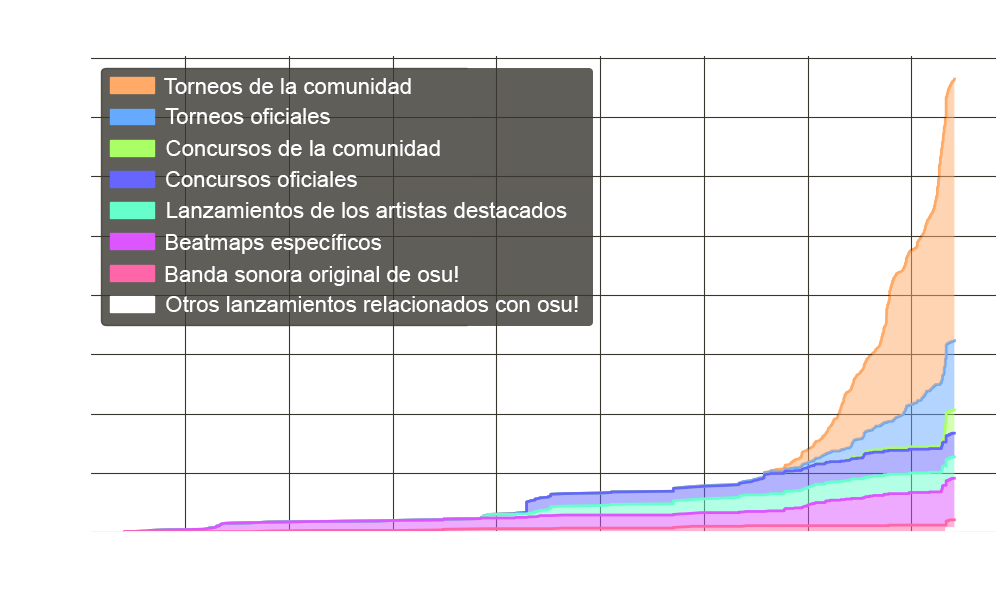
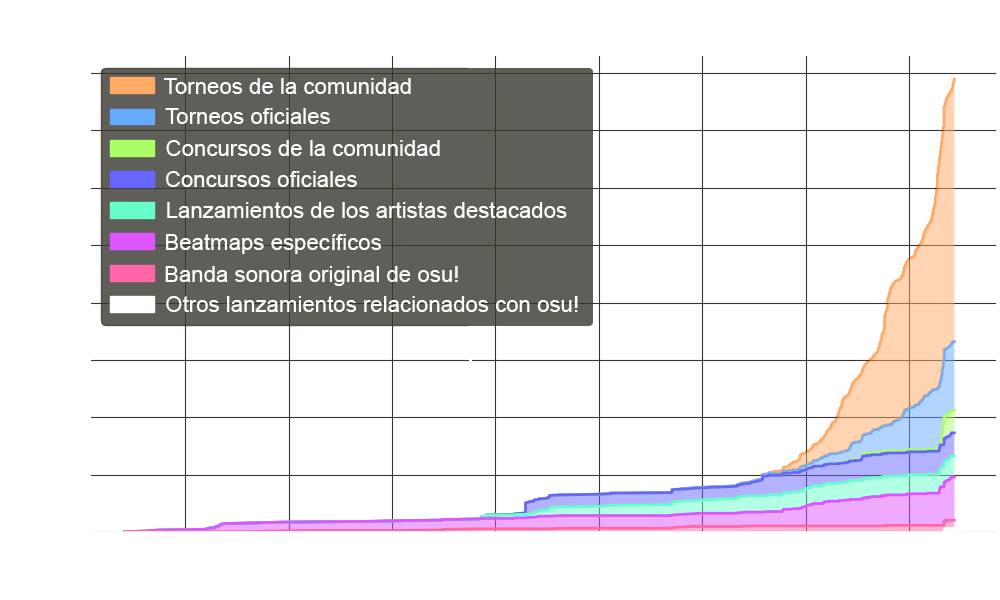
Apply #12427

diff --git a/wiki/osu!_originals/es.md b/wiki/osu!_originals/es.md
@@ -6,7 +6,7 @@ Todos los osu! originals que han sido licenciados por el juego están autorizado
 
 ## Estadísticas
 
-Actualmente, hay un total de **781** osu! originals documentados.
+Actualmente, hay un total de **789** osu! originals documentados.
 
 ![Gráfico de los osu! originals a lo largo del tiempo](img/originals-over-time-ES.png)
 
@@ -181,7 +181,7 @@ Estas canciones forman parte del [EP tomspicy osu! collection 01](https://osu.pp
 | [![SoundCloud](/wiki/shared/link/SoundCloud.png)](https://soundcloud.com/dialgadu77/escape "SoundCloud") [![YouTube](/wiki/shared/link/YouTube.png)](https://www.youtube.com/watch?v=rYmTItO3caw "YouTube") | [![FA](/wiki/shared/link/FA.png)](https://osu.ppy.sh/beatmaps/artists/tracks?artist=Kurokotei&query=%22escape%20%28the%20looking-glass%2C%20and%20what%20alice%20found%20there%29%22 "Página de artista destacado") | Kurokotei feat. Sennzai - escape (the looking-glass, and what alice found there) | [#1](https://osu.ppy.sh/beatmapsets/1880652) | Mapa de desempate de las semifinales |
 | [![YouTube](/wiki/shared/link/YouTube.png)](https://www.youtube.com/watch?v=PCc2tM3YWs0 "YouTube") | [![FA](/wiki/shared/link/FA.png)](https://osu.ppy.sh/beatmaps/artists/tracks?artist=NIWASHI&query=%22Harder%20Than%20Diamond%22 "Página de artista destacado") | NIWASHI - Harder Than Diamond | [#1](https://osu.ppy.sh/beatmapsets/1884920) | FM4 de las finales |
 | [![SoundCloud](/wiki/shared/link/SoundCloud.png)](https://soundcloud.com/dksslqj/sanctuary "SoundCloud") | [![FA](/wiki/shared/link/FA.png)](https://osu.ppy.sh/beatmaps/artists/tracks?artist=Rabbit%20House&query=%22Sanctuary%22 "Página de artista destacado") | Rabbit House - Sanctuary | [#1](https://osu.ppy.sh/beatmapsets/1889094) | HR2 de la gran final |
-| [![SoundCloud](/wiki/shared/link/SoundCloud.png)](https://soundcloud.com/channel-thenewlimee/myths-orbis "SoundCloud") | [![FA](/wiki/shared/link/FA.png)](https://osu.ppy.sh/beatmaps/artists/tracks?artist=Raimukun&query=%22Myths%20Orbis%22 "Página de artista destacado") | Raimukun - Myths Orbis | [#1](https://osu.ppy.sh/beatmapsets/1889095) | NM2 de la gran final |
+| [![SoundCloud](/wiki/shared/link/SoundCloud.png)](https://soundcloud.com/channel-thenewlimee/myths-orbis "SoundCloud") [![YouTube](/wiki/shared/link/YouTube.png)](https://www.youtube.com/watch?v=g8vY8MZbUNU "YouTube") [![Bandcamp](/wiki/shared/link/Bandcamp.png)](https://raimukun.bandcamp.com/track/myths-orbis "Bandcamp") | [![FA](/wiki/shared/link/FA.png)](https://osu.ppy.sh/beatmaps/artists/tracks?artist=Raimukun&query=%22Myths%20Orbis%22 "Página de artista destacado") | Raimukun - Myths Orbis | [#1](https://osu.ppy.sh/beatmapsets/1889095) | NM2 de la gran final |
 | [![SoundCloud](/wiki/shared/link/SoundCloud.png)](https://soundcloud.com/redside100/sidequest "SoundCloud") [![YouTube](/wiki/shared/link/YouTube.png)](https://www.youtube.com/watch?v=O-u84yuea_M "YouTube") [![Spotify](/wiki/shared/link/Spotify.png)](https://open.spotify.com/track/11LpGOC4EDTbiTvUKRKDFp "Spotify") | [![FA](/wiki/shared/link/FA.png)](https://osu.ppy.sh/beatmaps/artists/tracks?artist=Redside&query=%22Sidequest%22 "Página de artista destacado") | Redside - Sidequest | [#1](https://osu.ppy.sh/beatmapsets/1880625) | HR3 de los cuartos de final |
 | [![SoundCloud](/wiki/shared/link/SoundCloud.png)](https://soundcloud.com/rurinn/onostrapha "SoundCloud") [![YouTube](/wiki/shared/link/YouTube.png)](https://www.youtube.com/watch?v=DyBxCLcrY-c "YouTube") | [![FA](/wiki/shared/link/FA.png)](https://osu.ppy.sh/beatmaps/artists/tracks?artist=rN&query=%22onostrapha%22 "Página de artista destacado") | rN - onostrapha | [#1](https://osu.ppy.sh/beatmapsets/1884914) | FM2 de las finales |
 | [![SoundCloud](/wiki/shared/link/SoundCloud.png)](https://soundcloud.com/seatrus_frontier/seatrus-exxtra-judgement "SoundCloud") [![YouTube](/wiki/shared/link/YouTube.png)](https://www.youtube.com/watch?v=pjZbdWcPvsU "YouTube") | [![FA](/wiki/shared/link/FA.png)](https://osu.ppy.sh/beatmaps/artists/tracks?artist=seatrus&query=%22EXXTRA%20JUDGEMENT%22 "Página de artista destacado") | seatrus - EXXTRA JUDGEMENT | [#1](https://osu.ppy.sh/beatmapsets/1889132) | Mapa de desempate de la gran final |
@@ -218,6 +218,7 @@ Estas canciones forman parte del [EP tomspicy osu! collection 01](https://osu.pp
 | Enlaces | FA | Canción | Beatmap | Notas |
 | --: | :-: | :-- | :-: | :-- |
 | [![YouTube](/wiki/shared/link/YouTube.png)](https://www.youtube.com/watch?v=YpXzhptB8Yc "YouTube") | [![FA](/wiki/shared/link/FA.png)](https://osu.ppy.sh/beatmaps/artists/tracks?artist=Future%20Witness&query=%22Resolution%22 "Página de artista destacado") | Future Witness - Resolution | [#1](https://osu.ppy.sh/beatmapsets/2274925) |  |
+| [![YouTube](/wiki/shared/link/YouTube.png)](https://www.youtube.com/watch?v=vdGU-OIZ2dQ "YouTube") | [![FA](/wiki/shared/link/FA.png)](https://osu.ppy.sh/beatmaps/artists/tracks?artist=Genkaku%20Aria&query=%22Whiteout%22 "Página de artista destacado") | Genkaku Aria - Whiteout | [#1](https://osu.ppy.sh/beatmapsets/2278209) | Mapa de desempate de los cuartos de final |
 | [![YouTube](/wiki/shared/link/YouTube.png)](https://www.youtube.com/watch?v=It9hA0s9bI4 "YouTube") | [![FA](/wiki/shared/link/FA.png)](https://osu.ppy.sh/beatmaps/artists/tracks?artist=Imy&query=%22Lies%20playing%20Truth%22 "Página de artista destacado") | Imy feat. Natsume Itsuki - Lies playing Truth | [#1](https://osu.ppy.sh/beatmapsets/2271658) | Mapa de desempate de los dieciseisavos de final |
 | [![YouTube](/wiki/shared/link/YouTube.png)](https://www.youtube.com/watch?v=rG74CHZ9Vi8 "YouTube") [![Bandcamp](/wiki/shared/link/Bandcamp.png)](https://ahicha.bandcamp.com/track/ajitama-adventure-ost "Bandcamp") | [![FA](/wiki/shared/link/FA.png)](https://osu.ppy.sh/beatmaps/artists/tracks?artist=Umeboshi%20Chazuke&query=%22AJITAMA%20Adventure%20OST%22 "Página de artista destacado") | Umeboshi Chazuke - AJITAMA Adventure OST | [#1](https://osu.ppy.sh/beatmapsets/2274953) |  |
 
@@ -258,7 +259,7 @@ Estas canciones forman parte del [EP tomspicy osu! collection 01](https://osu.pp
 | [![YouTube](/wiki/shared/link/YouTube.png)](https://www.youtube.com/watch?v=Dwvnditb2dw "YouTube") | [![FA](/wiki/shared/link/FA.png)](https://osu.ppy.sh/beatmaps/artists/tracks?artist=DJ%20Raisei&query=%22Fractured%20Heaven%22 "Página de artista destacado") | DJ Raisei - Fractured Heaven | [#1](https://osu.ppy.sh/beatmapsets/2169918) | NM3 de la gran final |
 | [![YouTube](/wiki/shared/link/YouTube.png)](https://www.youtube.com/watch?v=lxHRlQN7oOk "YouTube") | [![FA](/wiki/shared/link/FA.png)](https://osu.ppy.sh/beatmaps/artists/tracks?artist=Hamu&query=%22Sunao%20ni%20Naritai%20%28osu%21%20Edit%20Ver.%29%22 "Página de artista destacado") | Hamu feat. Natsuki Karin - Sunao ni Naritai (osu! Edit Ver.) | [#1](https://osu.ppy.sh/beatmapsets/2152060) | HD1 de los dieciseisavos de final |
 | [![YouTube](/wiki/shared/link/YouTube.png)](https://www.youtube.com/watch?v=sCeQNe_OCmo "YouTube") | [![FA](/wiki/shared/link/FA.png)](https://osu.ppy.sh/beatmaps/artists/tracks?artist=katagiri&query=%22c0pyf0x%22 "Página de artista destacado") | katagiri - c0pyf0x | [#1](https://osu.ppy.sh/beatmapsets/2169957) | NM1 de la gran final |
-| [![YouTube](/wiki/shared/link/YouTube.png)](https://www.youtube.com/watch?v=oDnzKr31LmM "YouTube") | [![FA](/wiki/shared/link/FA.png)](https://osu.ppy.sh/beatmaps/artists/tracks?artist=lemm&query=%22Algorithm%2054%22 "Página de artista destacado") | lemm - Algorithm 54 | [#1](https://osu.ppy.sh/beatmapsets/2163075) | NM1 de las semifinales |
+| [![SoundCloud](/wiki/shared/link/SoundCloud.png)](https://soundcloud.com/lemmgator/algorithm-54 "SoundCloud") [![YouTube](/wiki/shared/link/YouTube.png)](https://www.youtube.com/watch?v=oDnzKr31LmM "YouTube") [![Bandcamp](/wiki/shared/link/Bandcamp.png)](https://lemmgator.bandcamp.com/track/algorithm-54 "Bandcamp") | [![FA](/wiki/shared/link/FA.png)](https://osu.ppy.sh/beatmaps/artists/tracks?artist=lemm&query=%22Algorithm%2054%22 "Página de artista destacado") | lemm - Algorithm 54 | [#1](https://osu.ppy.sh/beatmapsets/2163075) | NM1 de las semifinales |
 | [![SoundCloud](/wiki/shared/link/SoundCloud.png)](https://soundcloud.com/part-lerts/osu-taiko-world-cup-2024-aqua-vitae-feat-kagamine-rin-kagamine-len "SoundCloud") [![YouTube](/wiki/shared/link/YouTube.png)](https://www.youtube.com/watch?v=yqt0V-_bkM0 "YouTube") | [![FA](/wiki/shared/link/FA.png)](https://osu.ppy.sh/beatmaps/artists/tracks?artist=ptar124&query=%22aqua%20vitae%20feat.%20Kagamine%20Rin%20%26%20Kagamine%20Len%22 "Página de artista destacado") | ptar124 - aqua vitae feat. Kagamine Rin & Kagamine Len | [#1](https://osu.ppy.sh/beatmapsets/2155621) | NM1 de los octavos de final |
 | [![YouTube](/wiki/shared/link/YouTube.png)](https://www.youtube.com/watch?v=a1I6iZRU08g "YouTube") | [![FA](/wiki/shared/link/FA.png)](https://osu.ppy.sh/beatmaps/artists/tracks?artist=Yuuni&query=%22Fabricated%20Exaltation%22 "Página de artista destacado") | Quarkee & Yuuni - Fabricated Exaltation | [#1](https://osu.ppy.sh/beatmapsets/2169950) | Mapa de desempate de la gran final |
 | [![YouTube](/wiki/shared/link/YouTube.png)](https://www.youtube.com/watch?v=rW9wue2WBnc "YouTube") [![Bandcamp](/wiki/shared/link/Bandcamp.png)](https://sparxe.bandcamp.com/track/switcheroo "Bandcamp") | [![FA](/wiki/shared/link/FA.png)](https://osu.ppy.sh/beatmaps/artists/tracks?artist=Sparxe&query=%22Switcheroo%22 "Página de artista destacado") | Sparxe - Switcheroo | [#1](https://osu.ppy.sh/beatmapsets/2163116) | FM1 de las semifinales |
@@ -437,7 +438,7 @@ Estas canciones forman parte del [EP tomspicy osu! collection 01](https://osu.pp
 | Enlaces | FA | Canción | Beatmap | Notas |
 | --: | :-: | :-- | :-: | :-- |
 | [![YouTube](/wiki/shared/link/YouTube.png)](https://www.youtube.com/watch?v=gDQMyqoNr7Y "YouTube") |  | Luze - ANTIxTHEZE | [#1](https://osu.ppy.sh/beatmapsets/2275363#osu/4848734) | Mapa de desempate de la gran final |
-|  |  | Mitsuusa Meu - Hissei yo (NekoShabeta Bootleg) | [#1](https://osu.ppy.sh/beatmapsets/2268581#osu/4831332) | NM1 de las semifinales |
+|  |  | Mitsuusa Meu - Hissei yo (NekoShabeta Bootleg) | [#1](https://osu.ppy.sh/beatmapsets/2268581) | NM1 de las semifinales |
 
 #### ![](/wiki/shared/mode/osu.png) [Badgeless Wanderers Showdown](https://osu.ppy.sh/community/forums/topics/1849196)
 
@@ -459,7 +460,7 @@ Estas canciones forman parte del [EP tomspicy osu! collection 01](https://osu.pp
 |  | [![FA](/wiki/shared/link/FA.png)](https://osu.ppy.sh/beatmaps/artists/tracks?query=%22DJ%20Raisei%20-%20ReDIVE%20NEURON%22 "Página de artista destacado") | DJ Raisei - ReDIVE NEURON[^fa] | [#1](https://osu.ppy.sh/beatmapsets/2227156) | HR1 de la gran final |
 | [![SoundCloud](/wiki/shared/link/SoundCloud.png)](https://soundcloud.com/kagetora0610/tenchi "SoundCloud") [![YouTube](/wiki/shared/link/YouTube.png)](https://www.youtube.com/watch?v=cq4xPdcRiqY "YouTube") | [![FA](/wiki/shared/link/FA.png)](https://osu.ppy.sh/beatmaps/artists/tracks?query=%22Kagetora.%20-%20Tenchi-Kaibyaku%22 "Página de artista destacado") | Kagetora. - Tenchi-Kaibyaku[^fa] | [#1](https://osu.ppy.sh/beatmapsets/2218861) | FM3 de las semifinales |
 | [![SoundCloud](/wiki/shared/link/SoundCloud.png)](https://soundcloud.com/katagiri/vivid-abyss "SoundCloud") [![YouTube](/wiki/shared/link/YouTube.png)](https://www.youtube.com/watch?v=2Hn5Xs4Qdno "YouTube") | [![FA](/wiki/shared/link/FA.png)](https://osu.ppy.sh/beatmaps/artists/tracks?query=%22katagiri%20-%20VIVID%20ABYSS%22 "Página de artista destacado") | katagiri - VIVID ABYSS[^fa] | [#1](https://osu.ppy.sh/beatmapsets/2227434) | Mapa de desempate de la gran final |
-|  | [![FA](/wiki/shared/link/FA.png)](https://osu.ppy.sh/beatmaps/artists/tracks?query=%22MYUKKE.%20-%20Beta%20Snow%22 "Página de artista destacado") | MYUKKE. - Beta Snow[^fa] | [#1](https://osu.ppy.sh/beatmapsets/2223271) | NM4 de las finales |
+| [![SoundCloud](/wiki/shared/link/SoundCloud.png)](https://soundcloud.com/myukke/beta-snow-for-badly-wood-cup-2024 "SoundCloud") [![YouTube](/wiki/shared/link/YouTube.png)](https://www.youtube.com/watch?v=C_RK-M8Lv8M "YouTube") [![Spotify](/wiki/shared/link/Spotify.png)](https://open.spotify.com/track/61aWumUoKHNb5AqUVlKYlL "Spotify") | [![FA](/wiki/shared/link/FA.png)](https://osu.ppy.sh/beatmaps/artists/tracks?query=%22MYUKKE.%20-%20Beta%20Snow%22 "Página de artista destacado") | MYUKKE. - Beta Snow[^fa] | [#1](https://osu.ppy.sh/beatmapsets/2223271) | NM4 de las finales |
 |  | [![FA](/wiki/shared/link/FA.png)](https://osu.ppy.sh/beatmaps/artists/tracks?query=%22Sad%20Keyboard%20Guy%20%26%20Gardens%20-%20Illusory%20Truth%22 "Página de artista destacado") | Sad Keyboard Guy & Gardens - Illusory Truth | [#1](https://osu.ppy.sh/beatmapsets/2219282) | Mapa de desempate de las semifinales |
 |  | [![FA](/wiki/shared/link/FA.png)](https://osu.ppy.sh/beatmaps/artists/tracks?query=%22seatrus%20-%20Blank%20society%22 "Página de artista destacado") | seatrus - Blank society[^fa] | [#1](https://osu.ppy.sh/beatmapsets/2226718) | NM4 de la gran final |
 | [![YouTube](/wiki/shared/link/YouTube.png)](https://www.youtube.com/watch?v=qcjCjqr5etI "YouTube") | [![FA](/wiki/shared/link/FA.png)](https://osu.ppy.sh/beatmaps/artists/tracks?query=%22uynet%20-%20Never%20Rezort%22 "Página de artista destacado") | uynet - Never Rezort | [#1](https://osu.ppy.sh/beatmapsets/2214270) | FM3 de los cuartos de final |
@@ -544,15 +545,15 @@ Estas canciones forman parte del [EP tomspicy osu! collection 01](https://osu.pp
 | [![SoundCloud](/wiki/shared/link/SoundCloud.png)](https://soundcloud.com/myukke/unknown-amnasia-from-corsace-open-2023 "SoundCloud") [![YouTube](/wiki/shared/link/YouTube.png)](https://www.youtube.com/watch?v=8iVjzpDOKlQ "YouTube") [![Bandcamp](/wiki/shared/link/Bandcamp.png)](https://serenhaide.bandcamp.com/track/myukke-unknown-amnasia "Bandcamp") | [![FA](/wiki/shared/link/FA.png)](https://osu.ppy.sh/beatmaps/artists/tracks?query=%22MYUKKE.%20-%20Unknown%20Amnasia%22 "Página de artista destacado") | MYUKKE. - Unknown Amnasia | [#1](https://osu.ppy.sh/beatmapsets/2047990) | HR1 de la pool A en la ronda de eliminación 1 |
 | [![SoundCloud](/wiki/shared/link/SoundCloud.png)](https://soundcloud.com/polysha/where "SoundCloud") [![Bandcamp](/wiki/shared/link/Bandcamp.png)](https://serenhaide.bandcamp.com/track/polysha-where-the-spirits-go-on "Bandcamp") | [![FA](/wiki/shared/link/FA.png)](https://osu.ppy.sh/beatmaps/artists/tracks?query=%22polysha%20-%20Where%20the%20Spirits%20Go%20On%22 "Página de artista destacado") | polysha - Where the Spirits Go On | [#1](https://osu.ppy.sh/beatmapsets/2051816) | Mapa de desempate de la ronda de eliminación 2 |
 | [![SoundCloud](/wiki/shared/link/SoundCloud.png)](https://soundcloud.com/sadkeyboardguy/waking-shadows "SoundCloud") [![YouTube](/wiki/shared/link/YouTube.png)](https://www.youtube.com/watch?v=e8j5SMp2-rY "YouTube") [![Bandcamp](/wiki/shared/link/Bandcamp.png)](https://serenhaide.bandcamp.com/track/sad-keyboard-guy-gardens-feat-elli-waking-shadows "Bandcamp") | [![FA](/wiki/shared/link/FA.png)](https://osu.ppy.sh/beatmaps/artists/tracks?query=%22Sad%20Keyboard%20Guy%20%26%20Gardens%20-%20Waking%20Shadows%20feat.%20eili%22 "Página de artista destacado") | Sad Keyboard Guy & Gardens - Waking Shadows feat. eili | [#1](https://osu.ppy.sh/beatmapsets/2048051) | Mapa de desempate de la ronda de eliminación 1 |
-| [![YouTube](/wiki/shared/link/YouTube.png)](https://www.youtube.com/watch?v=dPTCUJY2q3o "YouTube") [![Bandcamp](/wiki/shared/link/Bandcamp.png)](https://serenhaide.bandcamp.com/track/tag-astral-stranger "Bandcamp") | [![FA](/wiki/shared/link/FA.png)](https://osu.ppy.sh/beatmaps/artists/tracks?query=%22TAG%20-%20Astral%20Stranger%22 "Página de artista destacado") | TAG - Astral Stranger | [#1](https://osu.ppy.sh/beatmapsets/2048029) | HR1 de la pool C en la ronda de eliminación 1 |
-| [![Bandcamp](/wiki/shared/link/Bandcamp.png)](https://serenhaide.bandcamp.com/track/unfeeling-necrosis-of-warm-memories "Bandcamp") | [![FA](/wiki/shared/link/FA.png)](https://osu.ppy.sh/beatmaps/artists/tracks?query=%22unfeeling%20-%20necrosis%20of%20warm%20memories%22 "Página de artista destacado") | unfeeling - necrosis of warm memories | [#1](https://osu.ppy.sh/beatmapsets/2040003) | FM1 del todos contra todos |
+| [![YouTube](/wiki/shared/link/YouTube.png)](https://www.youtube.com/watch?v=dPTCUJY2q3o "YouTube") [![Spotify](/wiki/shared/link/Spotify.png)](https://open.spotify.com/track/7JRuidpZeQgeoI9P4ugHwK "Spotify") [![Bandcamp](/wiki/shared/link/Bandcamp.png)](https://serenhaide.bandcamp.com/track/tag-astral-stranger "Bandcamp") | [![FA](/wiki/shared/link/FA.png)](https://osu.ppy.sh/beatmaps/artists/tracks?query=%22TAG%20-%20Astral%20Stranger%22 "Página de artista destacado") | TAG - Astral Stranger | [#1](https://osu.ppy.sh/beatmapsets/2048029) | HR1 de la pool C en la ronda de eliminación 1 |
+| [![YouTube](/wiki/shared/link/YouTube.png)](https://www.youtube.com/watch?v=xkVaBaA_lR8 "YouTube") [![Spotify](/wiki/shared/link/Spotify.png)](https://open.spotify.com/track/5varMnfTuBEz6P9oqWZjWV "Spotify") [![Bandcamp](/wiki/shared/link/Bandcamp.png)](https://serenhaide.bandcamp.com/track/unfeeling-necrosis-of-warm-memories "Bandcamp") | [![FA](/wiki/shared/link/FA.png)](https://osu.ppy.sh/beatmaps/artists/tracks?query=%22unfeeling%20-%20necrosis%20of%20warm%20memories%22 "Página de artista destacado") | unfeeling - necrosis of warm memories | [#1](https://osu.ppy.sh/beatmapsets/2040003) | FM1 del todos contra todos |
 
 #### ![](/wiki/shared/mode/osu.png) [Corsace Open 2024](https://osu.ppy.sh/community/forums/topics/1945293)
 
 | Enlaces | FA | Canción | Beatmap | Notas |
 | --: | :-: | :-- | :-: | :-- |
 | [![SoundCloud](/wiki/shared/link/SoundCloud.png)](https://soundcloud.com/aethral/lacrima-elegy "SoundCloud") [![YouTube](/wiki/shared/link/YouTube.png)](https://www.youtube.com/watch?v=IS3Pvy-EG3k "YouTube") [![Spotify](/wiki/shared/link/Spotify.png)](https://open.spotify.com/track/06Hq5Y1FqbMY4cUpiuIMLQ "Spotify") [![Bandcamp](/wiki/shared/link/Bandcamp.png)](https://aethral.bandcamp.com/track/lacrima-elegy "Bandcamp") |  | Aethral - Lacrima Elegy[^fa] | [#1](https://osu.ppy.sh/beatmapsets/2230360) | Mapa de desempate de la semana 2 |
-| [![SoundCloud](/wiki/shared/link/SoundCloud.png)](https://soundcloud.com/ikaruga_nex/corsace-open-2024-gott-der-apokalypse "SoundCloud") |  | Kagetora. vs. ikaruga\_nex - Gott der Apokalypse[^fa] | [#1](https://osu.ppy.sh/beatmapsets/2226230) | Mapa de desempate de la semana 1 |
+| [![SoundCloud](/wiki/shared/link/SoundCloud.png)](https://soundcloud.com/ikaruga_nex/corsace-open-2024-gott-der-apokalypse "SoundCloud") [![YouTube](/wiki/shared/link/YouTube.png)](https://www.youtube.com/watch?v=5akNlS3p0vQ "YouTube") |  | Kagetora. vs. ikaruga\_nex - Gott der Apokalypse[^fa] | [#1](https://osu.ppy.sh/beatmapsets/2226230) | Mapa de desempate de la semana 1 |
 | [![SoundCloud](/wiki/shared/link/SoundCloud.png)](https://soundcloud.com/kanemiko/astranelique "SoundCloud") [![YouTube](/wiki/shared/link/YouTube.png)](https://www.youtube.com/watch?v=l28aoIjcX64 "YouTube") |  | Kurokotei x kanemiko - astranelique[^fa] | [#1](https://osu.ppy.sh/beatmapsets/2234516) | Mapa de desempate de la semana 3 |
 | [![SoundCloud](/wiki/shared/link/SoundCloud.png)](https://soundcloud.com/user-721414606/cut "SoundCloud") [![YouTube](/wiki/shared/link/YouTube.png)](https://www.youtube.com/watch?v=FvhhsB-8A30 "YouTube") |  | N\_dog - Cyclic Universe Theory | [#1](https://osu.ppy.sh/beatmapsets/2238742) | Mapa de desempate de la semana 4 |
 | [![YouTube](/wiki/shared/link/YouTube.png)](https://www.youtube.com/watch?v=1uwsXUWHn0w "YouTube") [![Spotify](/wiki/shared/link/Spotify.png)](https://open.spotify.com/album/2y2V0UNj5ghkR6YdQXL7R5 "Spotify") |  | orangentle - Chromatolight[^fa] | [#1](https://osu.ppy.sh/beatmapsets/2238833) | Mapa de desempate de la gran final |
@@ -894,6 +895,12 @@ Estas canciones forman parte del [EP tomspicy osu! collection 01](https://osu.pp
 | --: | :-: | :-- | :-: | :-- |
 | [![SoundCloud](/wiki/shared/link/SoundCloud.png)](https://soundcloud.com/samstring/numa "SoundCloud") | [![FA](/wiki/shared/link/FA.png)](https://osu.ppy.sh/beatmaps/artists/tracks?artist=SAMString&query=%22NUMA%22 "Página de artista destacado") | SAMString - NUMA | [#1](https://osu.ppy.sh/beatmapsets/1570528) | Mapa de desempate de la gran final |
 
+#### ![](/wiki/shared/mode/osu.png) [osu! Austrian Tournament 11](https://osu.ppy.sh/community/forums/topics/1969324)
+
+| Enlaces | FA | Canción | Beatmap | Notas |
+| --: | :-: | :-- | :-: | :-- |
+| [![SoundCloud](/wiki/shared/link/SoundCloud.png)](https://soundcloud.com/juwubimusic/oat-grand-finals-tie-breaker-ritmo-de-virtu "SoundCloud") |  | Juwubi - Ritmo de Virtu | [#1](https://osu.ppy.sh/beatmapsets/2275699) | Mapa de desempate de la gran final |
+
 #### ![](/wiki/shared/mode/osu.png) [osu! French Tournament 2024](https://osu.ppy.sh/community/forums/topics/1962782)
 
 | Enlaces | FA | Canción | Beatmap | Notas |
@@ -968,7 +975,10 @@ Estas canciones forman parte del [EP tomspicy osu! collection 01](https://osu.pp
 
 | Enlaces | FA | Canción | Beatmap | Notas |
 | --: | :-: | :-- | :-: | :-- |
+|  |  | Astolsko - lunefleur | [#1](https://osu.ppy.sh/beatmapsets/2278859) | NM4 de la gran final del Tier 1 |
+| [![SoundCloud](/wiki/shared/link/SoundCloud.png)](https://soundcloud.com/foodbot/feud-in-perplexity "SoundCloud") |  | Foodbot - Feud Against Perplexity | [#1](https://osu.ppy.sh/beatmapsets/2278818) | HR3 de la gran final del Tier 1 |
 | [![SoundCloud](/wiki/shared/link/SoundCloud.png)](https://soundcloud.com/h5-music/erm-what-is-this-show-about "SoundCloud") [![YouTube](/wiki/shared/link/YouTube.png)](https://www.youtube.com/watch?v=kkLaJ9qyD0A "YouTube") |  | H5 - *Erm, What is this Show About...? | [#1](https://osu.ppy.sh/beatmapsets/2268735) | Mapa de desempate de los cuartos de final del Tier 1 |
+| [![SoundCloud](/wiki/shared/link/SoundCloud.png)](https://soundcloud.com/roerdtm/dystortion-dystopia "SoundCloud") [![YouTube](/wiki/shared/link/YouTube.png)](https://www.youtube.com/watch?v=DIi71uJUsQQ "YouTube") |  | roer & kaydotnet - Dystortion Dystopia | [#1](https://osu.ppy.sh/beatmapsets/2278785) | Mapa de desempate de la gran final del Tier 1 |
 | [![SoundCloud](/wiki/shared/link/SoundCloud.png)](https://soundcloud.com/silis/toxic-against-the-crowd "SoundCloud") [![YouTube](/wiki/shared/link/YouTube.png)](https://www.youtube.com/watch?v=Ke7HQLut5xA "YouTube") |  | SiLiS - Toxic against the crowd[^fa] | [#1](https://osu.ppy.sh/beatmapsets/2264989) | NM4 de los octavos de final del Tier 1 |
 | [![SoundCloud](/wiki/shared/link/SoundCloud.png)](https://soundcloud.com/hiimtype_r/the-devil-in-white "SoundCloud") |  | Type R - The Devil In White | [#1](https://osu.ppy.sh/beatmapsets/2275528) | Mapa de desempate de las finales del Tier 1 |
 | [![SoundCloud](/wiki/shared/link/SoundCloud.png)](https://soundcloud.com/yuunimoosic/nucifera "SoundCloud") |  | Yuuni - NUCiFERA[^fa] | [#1](https://osu.ppy.sh/beatmapsets/2275482) | NM3 de las finales del Tier 1 |
@@ -1239,6 +1249,12 @@ Estas canciones forman parte del [EP tomspicy osu! collection 01](https://osu.pp
 | --: | :-: | :-- | :-: | :-- |
 | [![YouTube](/wiki/shared/link/YouTube.png)](https://www.youtube.com/watch?v=KI4CrPm8IuA "YouTube") [![SoundCloud](/wiki/shared/link/SoundCloud.png)](https://soundcloud.com/juwubimusic/phnm-2024-grand-finals-tb-primordial-reflection-a-retrogade-adventure "SoundCloud") [![Bandcamp](/wiki/shared/link/Bandcamp.png)](https://juwubimusic.bandcamp.com/track/primordial-reflection "Bandcamp") |  | Juwubi - Primordial Reflection \~A Retrograde Adventure\~ | [#1](https://osu.ppy.sh/beatmapsets/2207022) | Mapa de desempate de la gran final |
 
+#### ![](/wiki/shared/mode/taiko.png) [osu! Philippines Nationals 2024 - osu!taiko](https://osu.ppy.sh/community/forums/topics/1971304)
+
+| Enlaces | FA | Canción | Beatmap | Notas |
+| --: | :-: | :-- | :-: | :-- |
+| [![SoundCloud](/wiki/shared/link/SoundCloud.png)](https://soundcloud.com/wyntr808/wyntr-upopzone "SoundCloud") |  | wyntr. - UPOPZONE | [#1](https://osu.ppy.sh/beatmapsets/2278404) | NM1 de la gran final |
+
 #### ![](/wiki/shared/mode/taiko.png) [osu!taiko Malaysian Tournament 2022](https://osu.ppy.sh/community/forums/topics/1629138)
 
 | Enlaces | FA | Canción | Beatmap | Notas |
@@ -1433,7 +1449,9 @@ Estas canciones forman parte del [EP tomspicy osu! collection 01](https://osu.pp
 
 | Enlaces | FA | Canción | Beatmap | Notas |
 | --: | :-: | :-- | :-: | :-- |
-|  |  | Midian - Infernal Ascension | [#1](https://osu.ppy.sh/beatmapsets/2275260) | LN3 de las finales |
+|  |  | Midian - Cornershot[^fa] | [#1](https://osu.ppy.sh/beatmapsets/2275622) | RC4 de las finales |
+|  |  | Midian - Infernal Ascension[^fa] | [#1](https://osu.ppy.sh/beatmapsets/2275260) | LN3 de las finales |
+|  |  | Midian - Resonance Breaker[^fa] | [#1](https://osu.ppy.sh/beatmapsets/2276019) | RC5 de las finales |
 
 #### ![](/wiki/shared/mode/mania.png) [Vietnamese National Mania Championship 2023 - Oblitus Requiem](https://osu.ppy.sh/community/forums/topics/1779599)
 
